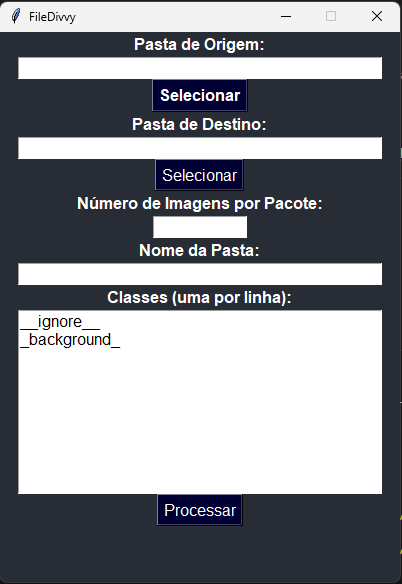
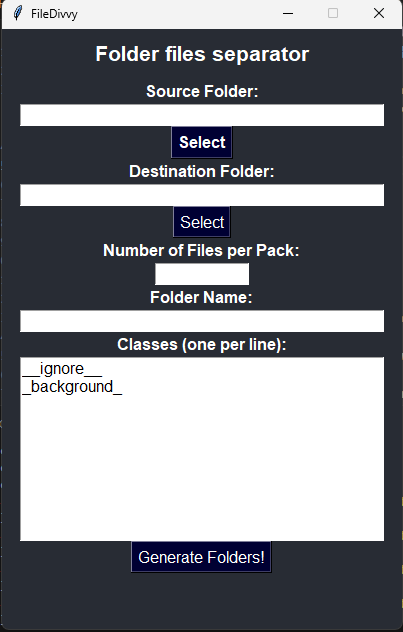
Add files via upload

diff --git a/programs/ImgFldSeparator.py b/programs/ImgFldSeparator.py
@@ -56,8 +56,12 @@ def processar():
     nome_pasta = nome_pasta_entry.get()
     classes = classes_entry.get("1.0", tk.END).split("\n")
 
+    # Atualiza a label de status para "Gerando Pastas..."
+    status_label.config(text="Generating Folders...")
+    window.update()  # Atualiza a interface para exibir imediatamente a mensagem
+
     separar_imagens(pasta_origem, pasta_destino, imagens_por_pacote, nome_pasta, classes)
-    status_label.config(text="Processamento concluído!")
+    status_label.config(text="Processing completed!")
 
 
 # Criação da janela principal
@@ -75,47 +79,47 @@ def create_label(parent, text):
 
 # Componentes da GUI
 
-titulo_label = tk.Label(window, text="Separador de imagens por pastas", bg="#282C34", fg="#FFFFFF", font=("Arial", 16, "bold"))
+titulo_label = tk.Label(window, text="Folder files separator", bg="#282C34", fg="#FFFFFF", font=("Arial", 16, "bold"))
 titulo_label.pack(pady=10)
 
-pasta_origem_label = create_label(window, "Pasta de Origem:")
+pasta_origem_label = create_label(window, "Source Folder:")
 pasta_origem_label.pack()
 
 pasta_origem_entry = tk.Entry(window, width=40, font=("Arial", 12))
 pasta_origem_entry.pack()
 
-selecionar_origem_button = tk.Button(window, text="Selecionar", command=selecionar_pasta_origem,  font=("Arial", 12, "bold"), bg="#000033", fg="#FFFFFF")
+selecionar_origem_button = tk.Button(window, text="Select", command=selecionar_pasta_origem,  font=("Arial", 12, "bold"), bg="#000033", fg="#FFFFFF")
 selecionar_origem_button.pack()
 
-pasta_destino_label = create_label(window, "Pasta de Destino:")
+pasta_destino_label = create_label(window, "Destination Folder:")
 pasta_destino_label.pack()
 
 pasta_destino_entry = tk.Entry(window, width=40, font=("Arial", 12))
 pasta_destino_entry.pack()
 
-selecionar_destino_button = tk.Button(window, text="Selecionar", command=selecionar_pasta_destino,  font=("Arial", 12), bg="#000033", fg="#FFFFFF")
+selecionar_destino_button = tk.Button(window, text="Select", command=selecionar_pasta_destino,  font=("Arial", 12), bg="#000033", fg="#FFFFFF")
 selecionar_destino_button.pack()
 
-imagens_por_pacote_label = create_label(window, "Número de Imagens por Pacote:")
+imagens_por_pacote_label = create_label(window, "Number of Files per Pack:")
 imagens_por_pacote_label.pack()
 
 imagens_por_pacote_entry = tk.Entry(window, width=10, font=("Arial", 12))
 imagens_por_pacote_entry.pack()
 
-nome_pasta_label = create_label(window, "Nome da Pasta:")
+nome_pasta_label = create_label(window, "Folder Name:")
 nome_pasta_label.pack()
 
 nome_pasta_entry = tk.Entry(window, width=40, font=("Arial", 12))
 nome_pasta_entry.pack()
 
-classes_label = create_label(window, "Classes (uma por linha):")
+classes_label = create_label(window, "Classes (one per line):")
 classes_label.pack()
 
 classes_entry = tk.Text(window, height=10, width=40, font=("Arial", 12))
 classes_entry.insert(0.0, "__ignore__\n_background_\n")
 classes_entry.pack()
 
-processar_button = tk.Button(window, text="Processar", command=processar,  font=("Arial", 12), bg="#000033", fg="#FFFFFF")
+processar_button = tk.Button(window, text="Generate Folders!", command=processar,  font=("Arial", 12), bg="#000033", fg="#FFFFFF")
 processar_button.pack()
 
 # Status da execução

diff --git a/programs/VideoFrames.py b/programs/VideoFrames.py
@@ -54,36 +54,36 @@ window.resizable(False, False)
 window.configure(bg="#282C34")
 
 # Componentes da GUI
-titulo_label = tk.Label(window, text="Separar Video em Frames", bg="#282C34", fg="#FFFFFF", font=("Arial", 16, "bold"))
+titulo_label = tk.Label(window, text="Separate Video into Frames", bg="#282C34", fg="#FFFFFF", font=("Arial", 16, "bold"))
 titulo_label.pack(pady=10)
 
-pasta_origem_label = tk.Label(window, text="Pasta de Origem (Vídeo):", bg="#282C34", fg="#FFFFFF", font=("Arial", 12))
+pasta_origem_label = tk.Label(window, text="Source Folder (Video):", bg="#282C34", fg="#FFFFFF", font=("Arial", 12))
 pasta_origem_label.pack()
 
 pasta_origem_entry = tk.Entry(window, width=40, font=("Arial", 12))
 pasta_origem_entry.pack()
 
-selecionar_origem_button = tk.Button(window, text="Selecionar", command=selecionar_pasta_origem, font=("Arial", 12, "bold"), bg="#000033", fg="#FFFFFF")
+selecionar_origem_button = tk.Button(window, text="Select", command=selecionar_pasta_origem, font=("Arial", 12, "bold"), bg="#000033", fg="#FFFFFF")
 selecionar_origem_button.pack(pady=10)
 
-pasta_destino_label = tk.Label(window, text="Pasta de Destino:", bg="#282C34", fg="#FFFFFF", font=("Arial", 12))
+pasta_destino_label = tk.Label(window, text="Destination Folder:", bg="#282C34", fg="#FFFFFF", font=("Arial", 12))
 pasta_destino_label.pack()
 
 pasta_destino_entry = tk.Entry(window, width=40, font=("Arial", 12))
 pasta_destino_entry.pack()
 
-selecionar_destino_button = tk.Button(window, text="Selecionar", command=selecionar_pasta_destino, font=("Arial", 12), bg="#000033", fg="#FFFFFF")
+selecionar_destino_button = tk.Button(window, text="Select", command=selecionar_pasta_destino, font=("Arial", 12), bg="#000033", fg="#FFFFFF")
 selecionar_destino_button.pack(pady=10)
 
 # Campo para definir o número de frames
-num_frames_label = tk.Label(window, text="Número de Frames:", bg="#282C34", fg="#FFFFFF", font=("Arial", 12))
+num_frames_label = tk.Label(window, text="Number of Frames:", bg="#282C34", fg="#FFFFFF", font=("Arial", 12))
 num_frames_label.pack()
 
 num_frames_entry = tk.Entry(window, width=10, font=("Arial", 12))
 num_frames_entry.pack()
 
 # Botão de processar
-processar_button = tk.Button(window, text="Processar", command=lambda: processar_frames(), font=("Arial", 14, "bold"), bg="#000033", fg="#FFFFFF")
+processar_button = tk.Button(window, text="Generate Frames!", command=lambda: processar_frames(), font=("Arial", 14, "bold"), bg="#000033", fg="#FFFFFF")
 processar_button.pack(pady=20)
 
 # Função para processar os frames
@@ -92,9 +92,12 @@ def processar_frames():
     pasta_destino = pasta_destino_entry.get().replace("\\", "/")
     num_frames = int(num_frames_entry.get())
 
+    status_label.config(text="Generating Frames...")
+    window.update()  # Atualiza a interface para exibir imediatamente a mensagem
+
     separar_frames(pasta_origem, pasta_destino, num_frames)
 
-    status_label.config(text="Processamento concluído!")
+    status_label.config(text="Processing completed!")
 
 # Status da execução
 status_label = tk.Label(window, text="", bg="#282C34", fg="#FFFFFF", font=("Arial", 12))

diff --git a/FileDivvyApp.py b/FileDivvyApp.py
@@ -25,15 +25,15 @@ titulo_label = tk.Label(window, text="FileDivvy", bg="#282C34", fg="#FFFFFF", fo
 titulo_label.pack(pady=20)
 
 # Botão para abrir o programa Main.py
-botao_main = tk.Button(window, text="Separar imagens em várias pastas", command=abrir_ImgFld, font=("Arial", 12), bg="#000033", fg="#FFFFFF")
+botao_main = tk.Button(window, text="Separate files into multiple folders", command=abrir_ImgFld, font=("Arial", 12), bg="#000033", fg="#FFFFFF")
 botao_main.pack(pady=10)
 
 # Botão para abrir o programa Video_interface.py
-botao_video_interface = tk.Button(window, text="Separar video em varios frames", command=abrir_videoFrames, font=("Arial", 12), bg="#000033", fg="#FFFFFF")
+botao_video_interface = tk.Button(window, text="Split video into multiple frames", command=abrir_videoFrames, font=("Arial", 12), bg="#000033", fg="#FFFFFF")
 botao_video_interface.pack(pady=10)
 
 # Botão para sair do programa
-botao_sair = tk.Button(window, text="Sair", command=sair, font=("Arial", 14, "bold"), bg="#FF0000", fg="#FFFFFF")
+botao_sair = tk.Button(window, text="Exit", command=sair, font=("Arial", 14, "bold"), bg="#FF0000", fg="#FFFFFF")
 botao_sair.pack(pady=20)
 
 # Execução da janela principal

diff --git a/README.md b/README.md
@@ -1,31 +1,30 @@
 # FileDivvy - folder partition files separator 🖼 📝 ⚙
+
 Program that takes a folder with several files and separates it into several folders with the defined number of files. This program helps anyone who wants to organize their datasets for annotation, for users of the labelme program.
+
+![Alt text](image.png)
 
 Run -> python FileDivvyApp.py.py
 
-MENU
-
-![image](https://github.com/PhaellZX/FileDivvy/assets/48337836/1090afb5-0f50-4152-ac7a-2d3308f08494)
-
-SEPARATOR FOLDERS AND IMAGES
+SEPARATOR FOLDERS AND FILES
 
 ![Alt text](image-1.png)
 
-2 - Origin Folder -> Select directory that contains the images
+1 - Origin Folder -> Select directory that contains the images
 
-3 - Destination Folder -> Select the directory where the folders will be divided
+2 - Destination Folder -> Select the directory where the folders will be divided
 
-4 - Number of Images per Package -> number of images in each folder
+3 - Number of Images per Package -> number of images in each folder
 
-5 - Folder Names -> When dividing folders, they will be divided by name and at the end the ID '_0,_1,_2,...'
+4 - Folder Names -> When dividing folders, they will be divided by name and at the end the ID '_0,_1,_2,...'
 
-6 - Classes -> Add a new class for each line (after the __ignore___background_ command)
+5 - Classes -> Add a new class for each line (after the _ignore___background command)
 
-7 - Process -> Start partitioning folders
+6 - Process -> Start partitioning folders
 
 VIDEO PARTITION FRAMES
 
-![image](https://github.com/PhaellZX/FileDivvy/assets/48337836/0ef45284-403a-40b6-bb76-5b6f9944f387)
+![Alt text](image-2.png)
 
 1 - Go to the source folder of the video
 
@@ -34,5 +33,4 @@ VIDEO PARTITION FRAMES
 3 - Enter the number of frames to partition
 
 4 - Execute(Processar)
-
 
